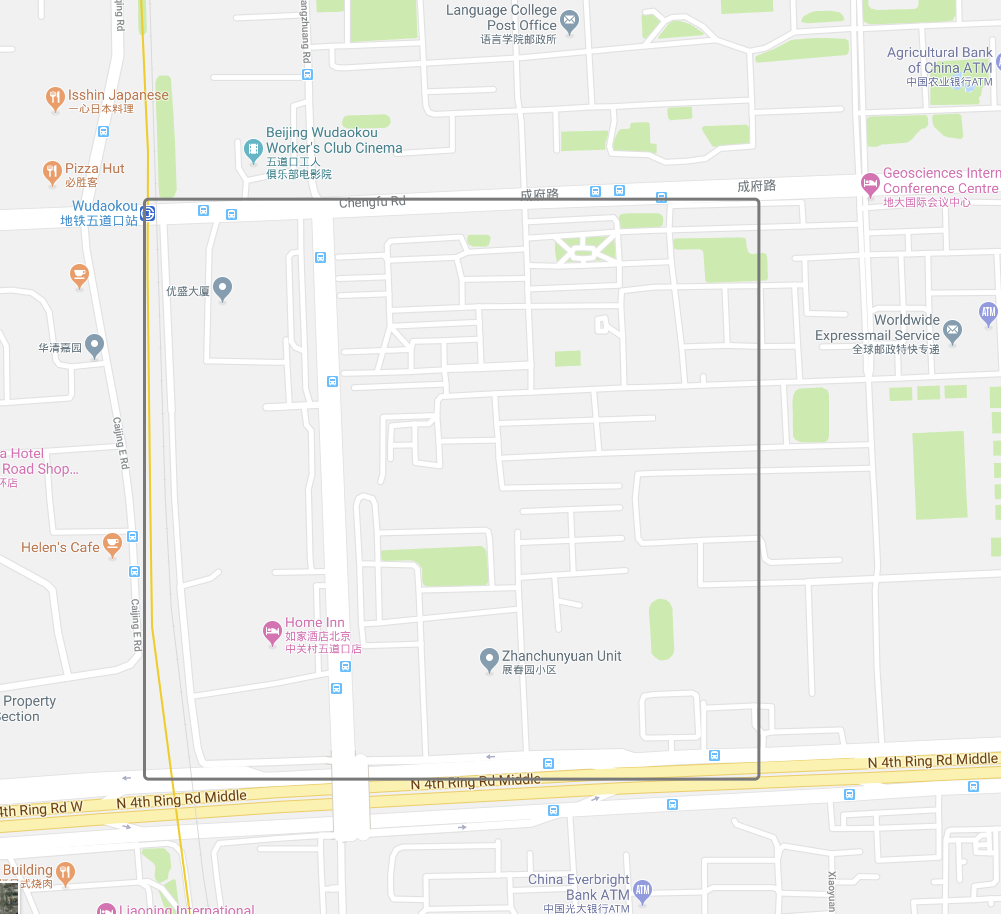
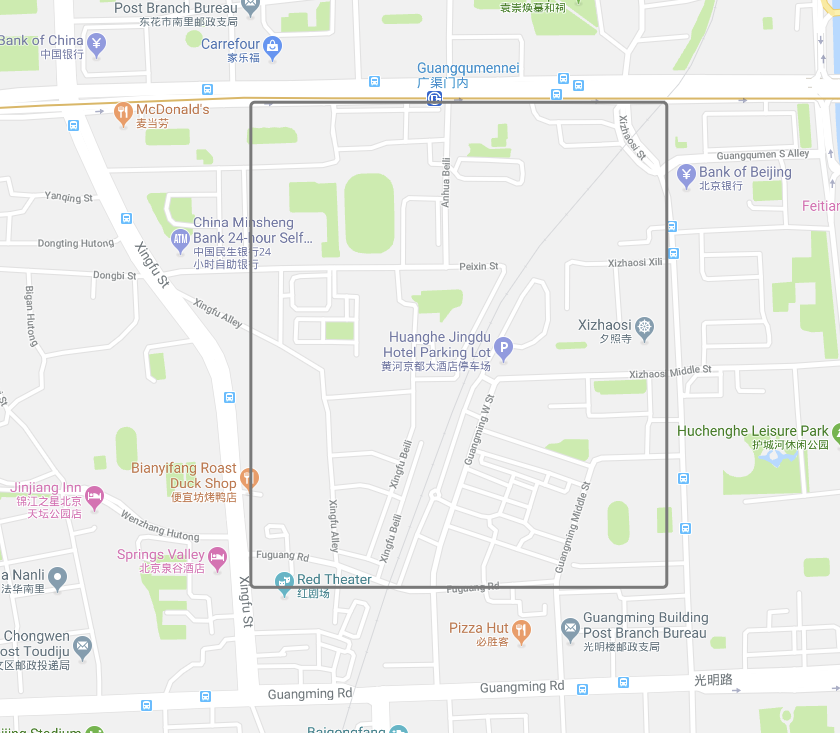
updated img

diff --git a/README.md b/README.md
@@ -83,10 +83,11 @@ We evaluate our method on TaxiBJ in four different time period and the experimen
 ## Visualization
 Here are the two areas in Beijing we visualize. The area1 is the place near Peking University, which is the same as in the Figure 9 in our paper. Area2 is a place near GuangQuMen bridge, mainly a place for residences. 
 
-| AREA1 | AREA2|
+| AREA1 | AREA2 |
 |-- |-- |
-|![alt text](img/gif/area1.png)|![alt text](img/gif/area2.png)|
+|![](img/gif/area0.png)|![](img/gif/area1.png)|
 
+### Area1
 This is the visualization for the inferred distribution for area1 for a day, from 7:00 to 21:00. From the GIF below we can clearly see that when external factors are not considered (UrbanFM_ne), the inferred distribution remains very stable along with time. That is, there is no difference between flows in the evening and in the morning. However, the inference from UrbanFM is very dynamic and adaptive to time.
 
 | UrbanFM | UrbanFM_ne|
@@ -94,9 +95,9 @@ This is the visualization for the inferred distribution for area1 for a day, fro
 |![](img/gif/ext/area0/0_0.gif)|![](img/gif/ne/area0/0_0.gif)|
 |![](img/gif/ext/area0/0_1.gif)|![](img/gif/ne/area0/0_1.gif)|
 
-This is the example for area2, where the top-right conner is a crossroad while other part of this region is residence. When external factors are not considered, it can be seen that the model only focus on the crossroad and cannot adjust to different temporal factor. However, UrbanFM is free from this problem and produce adaptive flow inference. These visualizations suggest UrbanFM indeed considers the external factor for inference. 
+### Area2
 
-![alt text](gif/ext/4/0_0/0_0_7.png)
+This is the example for area2, where the top-right conner is a crossroad while other part of this region is residence. When external factors are not considered, it can be seen that the model only focus on the crossroad and cannot adjust to different temporal factor. However, UrbanFM is free from this problem and produce adaptive flow inference. These visualizations suggest UrbanFM indeed considers the external factor for inference. 
 
 | UrbanFM |  UrbanFM_ne|
 |-- |-- |
